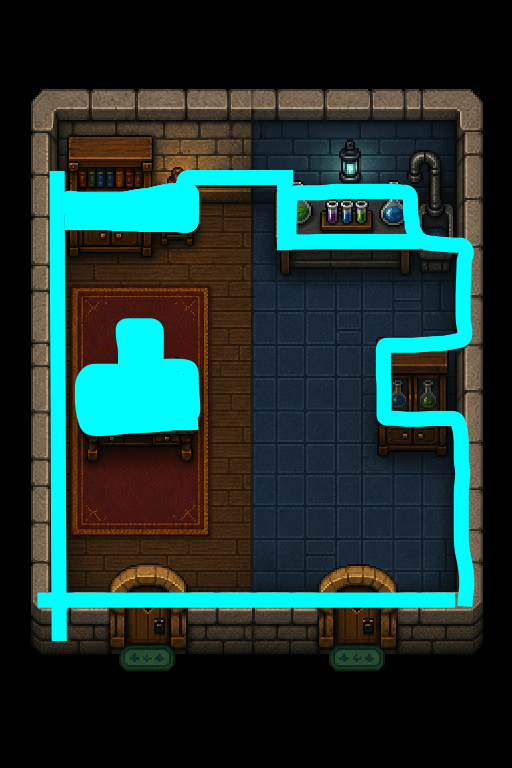
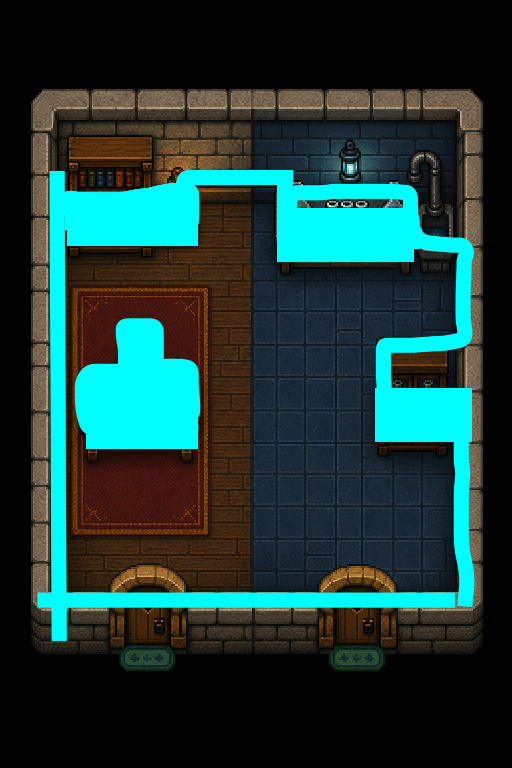
Improve interior doors and collision bounds

diff --git a/dist/internal-bundle.js b/dist/internal-bundle.js
@@ -4,7 +4,7 @@
   var INTERNAL_COLLISION_CELL_SIZE = 2;
   var INTERNAL_COLLISION_COLUMNS = 256;
   var INTERNAL_COLLISION_ROWS = 384;
[2 lines of base64/hex data omitted]
 
   // js/internal.ts
   var requireElement = (selector) => {
@@ -26,7 +26,7 @@
   var FRAME_COUNT = 9;
   var PLAYER_SCALE = 2;
   var VIEW_SCALE = 1;
-  var SPEED = 120;
+  var SPEED = 145;
   var SHOW_COLLISIONS = new URLSearchParams(window.location.search).has("collisions");
   var interior = new Image();
   var collisionMask = new Image();
@@ -73,6 +73,7 @@
   var releaseHandlers = [];
   var previousTime = 0;
   var openDoorIndex = null;
+  var navigationStarted = false;
   var INTERIOR_DOORS = [
     {
       triggerX: 153,
@@ -100,6 +101,7 @@
     }
   ];
   var DOOR_OPEN_DISTANCE = 53;
+  var DOOR_EXIT_DISTANCE = 18;
   var isHeld = (direction) => heldDirections.has(direction);
   function holdDirection(direction) {
     heldDirections.set(direction, (heldDirections.get(direction) ?? 0) + 1);
@@ -237,6 +239,14 @@
       });
     }
     openDoorIndex = nextOpenDoorIndex >= 0 ? nextOpenDoorIndex : null;
+    if (navigationStarted) return;
+    const exitDoor = INTERIOR_DOORS.find(
+      (door) => Math.hypot(player.x - door.triggerX, player.y - door.triggerY) <= DOOR_EXIT_DISTANCE
+    );
+    if (!exitDoor) return;
+    navigationStarted = true;
+    const returnDoor = enteredDoor ? `?door=${encodeURIComponent(enteredDoor)}` : "";
+    window.location.assign(`../index.html${returnDoor}`);
   }
   function draw() {
     const viewportWidth = canvas.width / VIEW_SCALE;
@@ -245,22 +255,6 @@
     const cameraY = Math.round(Math.max(0, Math.min(WORLD_HEIGHT - viewportHeight, player.y - viewportHeight / 2)));
     context.clearRect(0, 0, canvas.width, canvas.height);
     context.drawImage(interior, cameraX, cameraY, viewportWidth, viewportHeight, 0, 0, canvas.width, canvas.height);
-    if (openDoorIndex !== null) {
-      const door = INTERIOR_DOORS[openDoorIndex];
-      if (door) {
-        context.drawImage(
-          doorOverlay,
-          door.sourceX,
-          door.sourceY,
-          door.sourceWidth,
-          door.sourceHeight,
-          (door.x - cameraX) * VIEW_SCALE,
-          (door.y - cameraY) * VIEW_SCALE,
-          door.width * VIEW_SCALE,
-          door.height * VIEW_SCALE
-        );
-      }
-    }
     if (SHOW_COLLISIONS) {
       context.save();
       context.globalAlpha = 0.55;
@@ -280,6 +274,22 @@
       width * VIEW_SCALE,
       height * VIEW_SCALE
     );
+    if (openDoorIndex !== null) {
+      const door = INTERIOR_DOORS[openDoorIndex];
+      if (door) {
+        context.drawImage(
+          doorOverlay,
+          door.sourceX,
+          door.sourceY,
+          door.sourceWidth,
+          door.sourceHeight,
+          (door.x - cameraX) * VIEW_SCALE,
+          (door.y - cameraY) * VIEW_SCALE,
+          door.width * VIEW_SCALE,
+          door.height * VIEW_SCALE
+        );
+      }
+    }
   }
   function gameLoop(time) {
     const deltaTime = previousTime === 0 ? 0 : Math.min((time - previousTime) / 1e3, 0.05);

diff --git a/dist/internal-collision-mask.js b/dist/internal-collision-mask.js
@@ -3,5 +3,5 @@
 export const INTERNAL_COLLISION_CELL_SIZE = 2;
 export const INTERNAL_COLLISION_COLUMNS = 256;
 export const INTERNAL_COLLISION_ROWS = 384;
[2 lines of base64/hex data omitted]
 //# sourceMappingURL=internal-collision-mask.js.map

diff --git a/js/internal-collision-mask.ts b/js/internal-collision-mask.ts
@@ -3,4 +3,4 @@
 export const INTERNAL_COLLISION_CELL_SIZE = 2;
 export const INTERNAL_COLLISION_COLUMNS = 256;
 export const INTERNAL_COLLISION_ROWS = 384;
[2 lines of base64/hex data omitted]

diff --git a/dist/internal.js b/dist/internal.js
@@ -20,7 +20,7 @@ const FRAME_HEIGHT = 36;
 const FRAME_COUNT = 9;
 const PLAYER_SCALE = 2;
 const VIEW_SCALE = 1;
-const SPEED = 120;
+const SPEED = 145;
 const SHOW_COLLISIONS = new URLSearchParams(window.location.search).has('collisions');
 const interior = new Image();
 const collisionMask = new Image();
@@ -67,6 +67,7 @@ const heldCodes = new Set();
 const releaseHandlers = [];
 let previousTime = 0;
 let openDoorIndex = null;
+let navigationStarted = false;
 const INTERIOR_DOORS = [
     {
         triggerX: 153,
@@ -94,6 +95,7 @@ const INTERIOR_DOORS = [
     },
 ];
 const DOOR_OPEN_DISTANCE = 53;
+const DOOR_EXIT_DISTANCE = 18;
 const isHeld = (direction) => heldDirections.has(direction);
 function holdDirection(direction) {
     heldDirections.set(direction, (heldDirections.get(direction) ?? 0) + 1);
@@ -251,6 +253,14 @@ function updateDoors() {
         });
     }
     openDoorIndex = nextOpenDoorIndex >= 0 ? nextOpenDoorIndex : null;
+    if (navigationStarted)
+        return;
+    const exitDoor = INTERIOR_DOORS.find((door) => Math.hypot(player.x - door.triggerX, player.y - door.triggerY) <= DOOR_EXIT_DISTANCE);
+    if (!exitDoor)
+        return;
+    navigationStarted = true;
+    const returnDoor = enteredDoor ? `?door=${encodeURIComponent(enteredDoor)}` : '';
+    window.location.assign(`../index.html${returnDoor}`);
 }
 function draw() {
     const viewportWidth = canvas.width / VIEW_SCALE;
@@ -259,12 +269,6 @@ function draw() {
     const cameraY = Math.round(Math.max(0, Math.min(WORLD_HEIGHT - viewportHeight, player.y - viewportHeight / 2)));
     context.clearRect(0, 0, canvas.width, canvas.height);
     context.drawImage(interior, cameraX, cameraY, viewportWidth, viewportHeight, 0, 0, canvas.width, canvas.height);
-    if (openDoorIndex !== null) {
-        const door = INTERIOR_DOORS[openDoorIndex];
-        if (door) {
-            context.drawImage(doorOverlay, door.sourceX, door.sourceY, door.sourceWidth, door.sourceHeight, (door.x - cameraX) * VIEW_SCALE, (door.y - cameraY) * VIEW_SCALE, door.width * VIEW_SCALE, door.height * VIEW_SCALE);
-        }
-    }
     if (SHOW_COLLISIONS) {
         context.save();
         context.globalAlpha = 0.55;
@@ -274,6 +278,12 @@ function draw() {
     const width = FRAME_WIDTH * PLAYER_SCALE;
     const height = FRAME_HEIGHT * PLAYER_SCALE;
     context.drawImage(spriteSheet, player.frame * FRAME_WIDTH, directionRows[player.direction] * FRAME_HEIGHT, FRAME_WIDTH, FRAME_HEIGHT, Math.round((player.x - cameraX - width / 2) * VIEW_SCALE), Math.round((player.y - cameraY - height) * VIEW_SCALE), width * VIEW_SCALE, height * VIEW_SCALE);
+    if (openDoorIndex !== null) {
+        const door = INTERIOR_DOORS[openDoorIndex];
+        if (door) {
+            context.drawImage(doorOverlay, door.sourceX, door.sourceY, door.sourceWidth, door.sourceHeight, (door.x - cameraX) * VIEW_SCALE, (door.y - cameraY) * VIEW_SCALE, door.width * VIEW_SCALE, door.height * VIEW_SCALE);
+        }
+    }
 }
 function gameLoop(time) {
     const deltaTime = previousTime === 0 ? 0 : Math.min((time - previousTime) / 1000, 0.05);

diff --git a/js/internal.ts b/js/internal.ts
@@ -31,7 +31,7 @@ const FRAME_HEIGHT = 36;
 const FRAME_COUNT = 9;
 const PLAYER_SCALE = 2;
 const VIEW_SCALE = 1;
-const SPEED = 120;
+const SPEED = 145;
 const SHOW_COLLISIONS = new URLSearchParams(window.location.search).has('collisions');
 
 const interior = new Image();
@@ -84,6 +84,7 @@ const heldCodes = new Set<string>();
 const releaseHandlers: Array<() => void> = [];
 let previousTime = 0;
 let openDoorIndex: number | null = null;
+let navigationStarted = false;
 
 const INTERIOR_DOORS = [
   {
@@ -112,6 +113,7 @@ const INTERIOR_DOORS = [
   },
 ] as const;
 const DOOR_OPEN_DISTANCE = 53;
+const DOOR_EXIT_DISTANCE = 18;
 
 const isHeld = (direction: InputDirection) => heldDirections.has(direction);
 
@@ -268,6 +270,16 @@ function updateDoors(): void {
     });
   }
   openDoorIndex = nextOpenDoorIndex >= 0 ? nextOpenDoorIndex : null;
+
+  if (navigationStarted) return;
+  const exitDoor = INTERIOR_DOORS.find((door) =>
+    Math.hypot(player.x - door.triggerX, player.y - door.triggerY) <= DOOR_EXIT_DISTANCE,
+  );
+  if (!exitDoor) return;
+
+  navigationStarted = true;
+  const returnDoor = enteredDoor ? `?door=${encodeURIComponent(enteredDoor)}` : '';
+  window.location.assign(`../index.html${returnDoor}`);
 }
 
 function draw(): void {
@@ -277,22 +289,6 @@ function draw(): void {
   const cameraY = Math.round(Math.max(0, Math.min(WORLD_HEIGHT - viewportHeight, player.y - viewportHeight / 2)));
   context.clearRect(0, 0, canvas.width, canvas.height);
   context.drawImage(interior, cameraX, cameraY, viewportWidth, viewportHeight, 0, 0, canvas.width, canvas.height);
-  if (openDoorIndex !== null) {
-    const door = INTERIOR_DOORS[openDoorIndex];
-    if (door) {
-      context.drawImage(
-        doorOverlay,
-        door.sourceX,
-        door.sourceY,
-        door.sourceWidth,
-        door.sourceHeight,
-        (door.x - cameraX) * VIEW_SCALE,
-        (door.y - cameraY) * VIEW_SCALE,
-        door.width * VIEW_SCALE,
-        door.height * VIEW_SCALE,
-      );
-    }
-  }
   if (SHOW_COLLISIONS) {
     context.save();
     context.globalAlpha = 0.55;
@@ -313,6 +309,23 @@ function draw(): void {
     width * VIEW_SCALE,
     height * VIEW_SCALE,
   );
+
+  if (openDoorIndex !== null) {
+    const door = INTERIOR_DOORS[openDoorIndex];
+    if (door) {
+      context.drawImage(
+        doorOverlay,
+        door.sourceX,
+        door.sourceY,
+        door.sourceWidth,
+        door.sourceHeight,
+        (door.x - cameraX) * VIEW_SCALE,
+        (door.y - cameraY) * VIEW_SCALE,
+        door.width * VIEW_SCALE,
+        door.height * VIEW_SCALE,
+      );
+    }
+  }
 }
 
 function gameLoop(time: number): void {

diff --git a/js/player.ts b/js/player.ts
@@ -7,6 +7,7 @@ import {
   WORLD_WIDTH,
 } from './config.js';
 import { playerCollidesAt } from './collision.js';
+import { DOORWAYS } from './doors.js';
 import { isHoleAnimationActive } from './hole.js';
 import { isHeld } from './input.js';
 import { bumpSignAt } from './signs.js';
@@ -15,9 +16,15 @@ import type { Direction, Player } from './types.js';
 const clampX = (x: number) => Math.max(HALF_WIDTH, Math.min(WORLD_WIDTH - HALF_WIDTH, x));
 const clampY = (y: number) => Math.max(SPRITE_HEIGHT, Math.min(WORLD_HEIGHT, y));
 
+const returnDoorId = new URLSearchParams(window.location.search).get('door');
+const returnDoor = DOORWAYS.find((doorway) => doorway.id === returnDoorId);
+const DEFAULT_START_X = WORLD_WIDTH / 1.5;
+const DEFAULT_START_Y = WORLD_HEIGHT / 2;
+const DOOR_RETURN_OFFSET = 12;
+
 export const player: Player = {
-  x: WORLD_WIDTH / 1.5,
-  y: WORLD_HEIGHT / 2,
+  x: returnDoor ? returnDoor.x + returnDoor.width / 2 : DEFAULT_START_X,
+  y: returnDoor ? returnDoor.y + returnDoor.height + DOOR_RETURN_OFFSET : DEFAULT_START_Y,
   direction: 'down',
   frame: 0,
   animationTime: 0,

diff --git a/dist/player.js b/dist/player.js
@@ -1,13 +1,19 @@
 import { FRAME_COUNT, HALF_WIDTH, SPEED, SPRITE_HEIGHT, WORLD_HEIGHT, WORLD_WIDTH, } from './config.js';
 import { playerCollidesAt } from './collision.js';
+import { DOORWAYS } from './doors.js';
 import { isHoleAnimationActive } from './hole.js';
 import { isHeld } from './input.js';
 import { bumpSignAt } from './signs.js';
 const clampX = (x) => Math.max(HALF_WIDTH, Math.min(WORLD_WIDTH - HALF_WIDTH, x));
 const clampY = (y) => Math.max(SPRITE_HEIGHT, Math.min(WORLD_HEIGHT, y));
+const returnDoorId = new URLSearchParams(window.location.search).get('door');
+const returnDoor = DOORWAYS.find((doorway) => doorway.id === returnDoorId);
+const DEFAULT_START_X = WORLD_WIDTH / 1.5;
+const DEFAULT_START_Y = WORLD_HEIGHT / 2;
+const DOOR_RETURN_OFFSET = 12;
 export const player = {
-    x: WORLD_WIDTH / 1.5,
-    y: WORLD_HEIGHT / 2,
+    x: returnDoor ? returnDoor.x + returnDoor.width / 2 : DEFAULT_START_X,
+    y: returnDoor ? returnDoor.y + returnDoor.height + DOOR_RETURN_OFFSET : DEFAULT_START_Y,
     direction: 'down',
     frame: 0,
     animationTime: 0,

diff --git a/dist/main-bundle.js b/dist/main-bundle.js
@@ -672,9 +672,14 @@
   // js/player.ts
   var clampX = (x) => Math.max(HALF_WIDTH, Math.min(WORLD_WIDTH - HALF_WIDTH, x));
   var clampY = (y) => Math.max(SPRITE_HEIGHT, Math.min(WORLD_HEIGHT, y));
+  var returnDoorId = new URLSearchParams(window.location.search).get("door");
+  var returnDoor = DOORWAYS.find((doorway) => doorway.id === returnDoorId);
+  var DEFAULT_START_X = WORLD_WIDTH / 1.5;
+  var DEFAULT_START_Y = WORLD_HEIGHT / 2;
+  var DOOR_RETURN_OFFSET = 12;
   var player = {
-    x: WORLD_WIDTH / 1.5,
-    y: WORLD_HEIGHT / 2,
+    x: returnDoor ? returnDoor.x + returnDoor.width / 2 : DEFAULT_START_X,
+    y: returnDoor ? returnDoor.y + returnDoor.height + DOOR_RETURN_OFFSET : DEFAULT_START_Y,
     direction: "down",
     frame: 0,
     animationTime: 0
